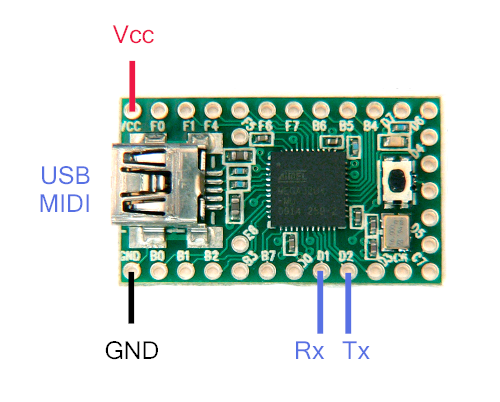
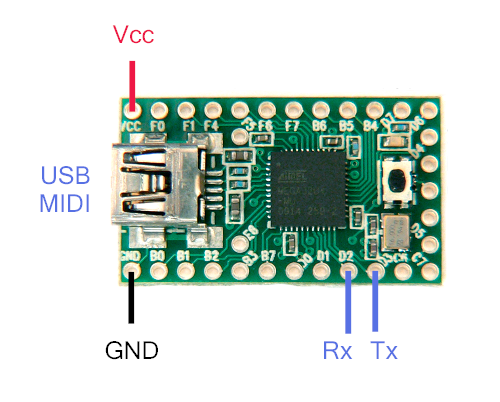
update Teensy images

Changed region(s): [[0.57, 0.6567, 0.81, 0.8955]]

diff --git a/README.md b/README.md
@@ -17,7 +17,7 @@ the volume envelope. Unlike the original hardware (but like the Soniccouture VST
 the switches are replaced by sliders. So instead of a simple on-off, each oscillator 
 and each speaker has a 0..127 range, controlled by MIDI.
 
-A full implementation would also include a keyboard (the Ones Martenot 
+A full implementation would also include a keyboard (the Ondes Martenot 
 used a smaller than full size, 5-octave keyboard), vibrato (the keyboard 
 moves from side to side), and the 'bague' or ring, a continuous pitch controller.
 This last aspect does not map well to MIDI.
